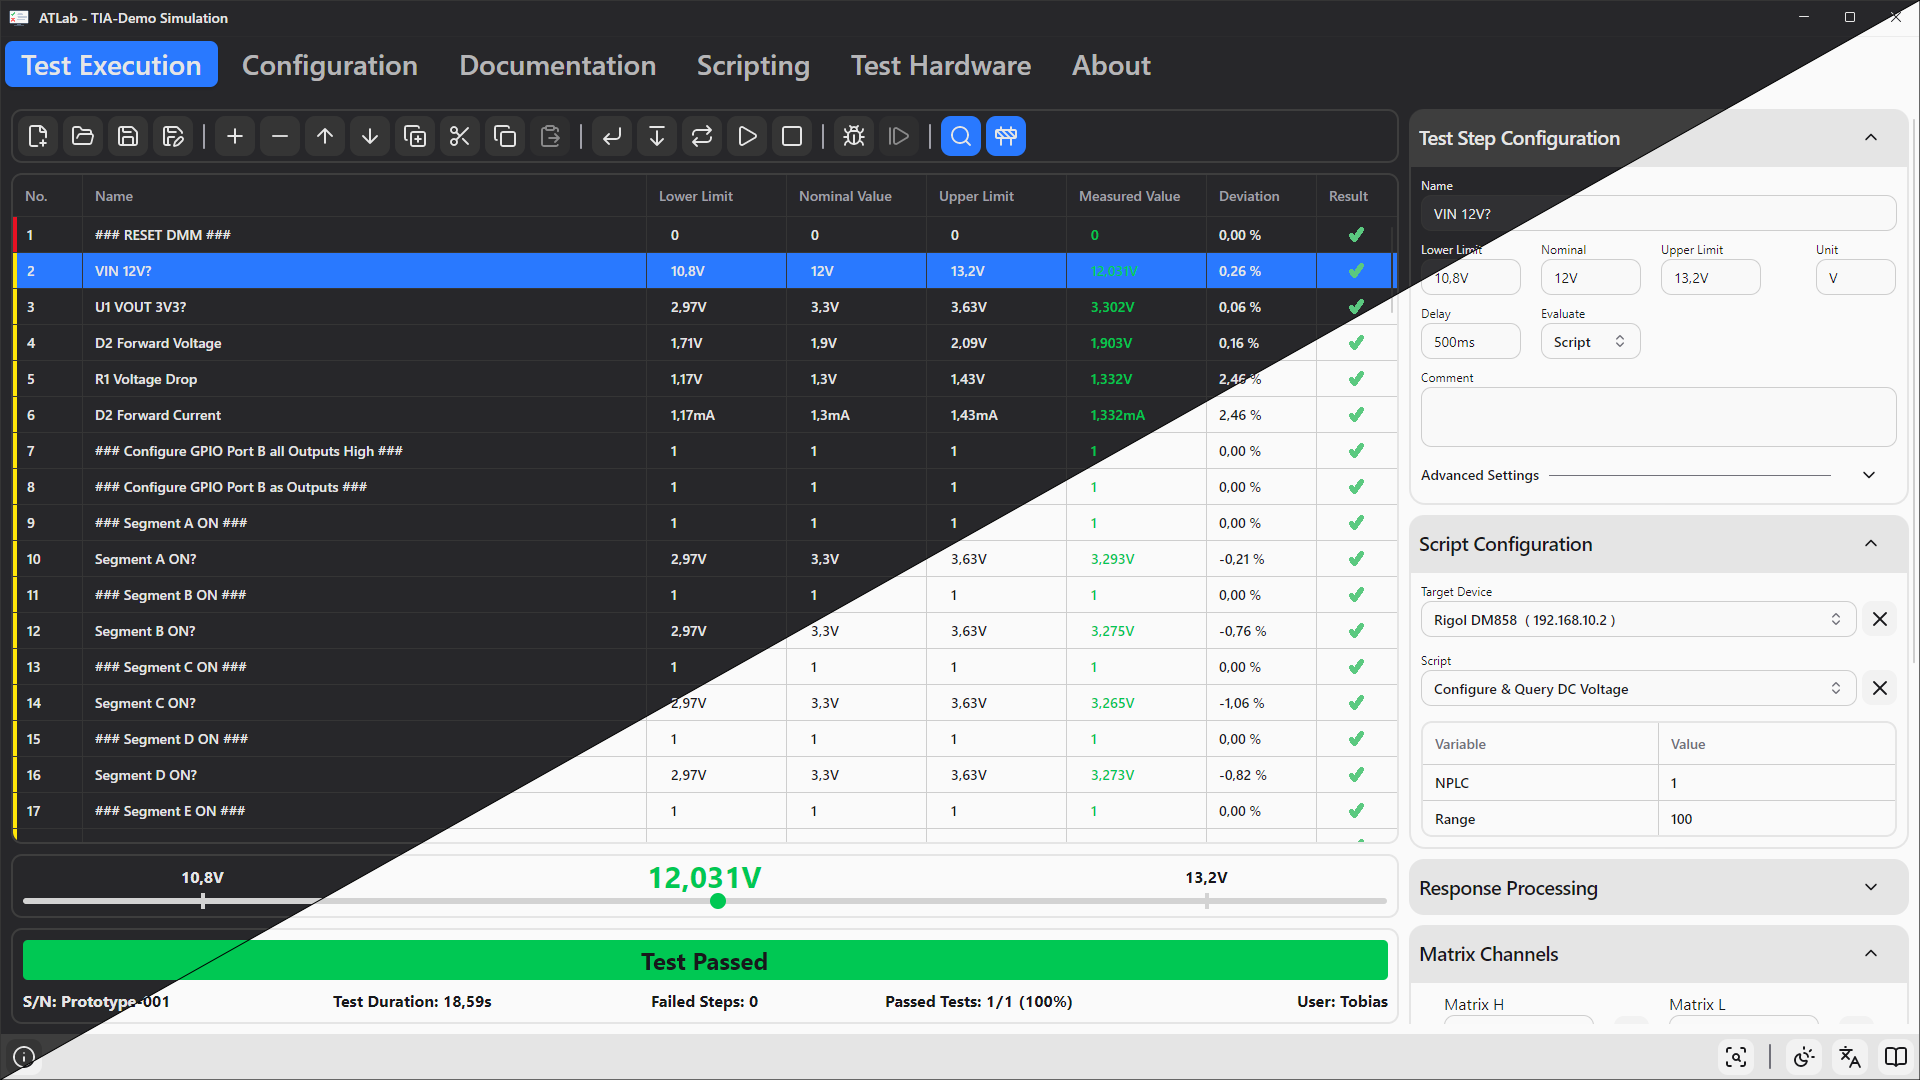
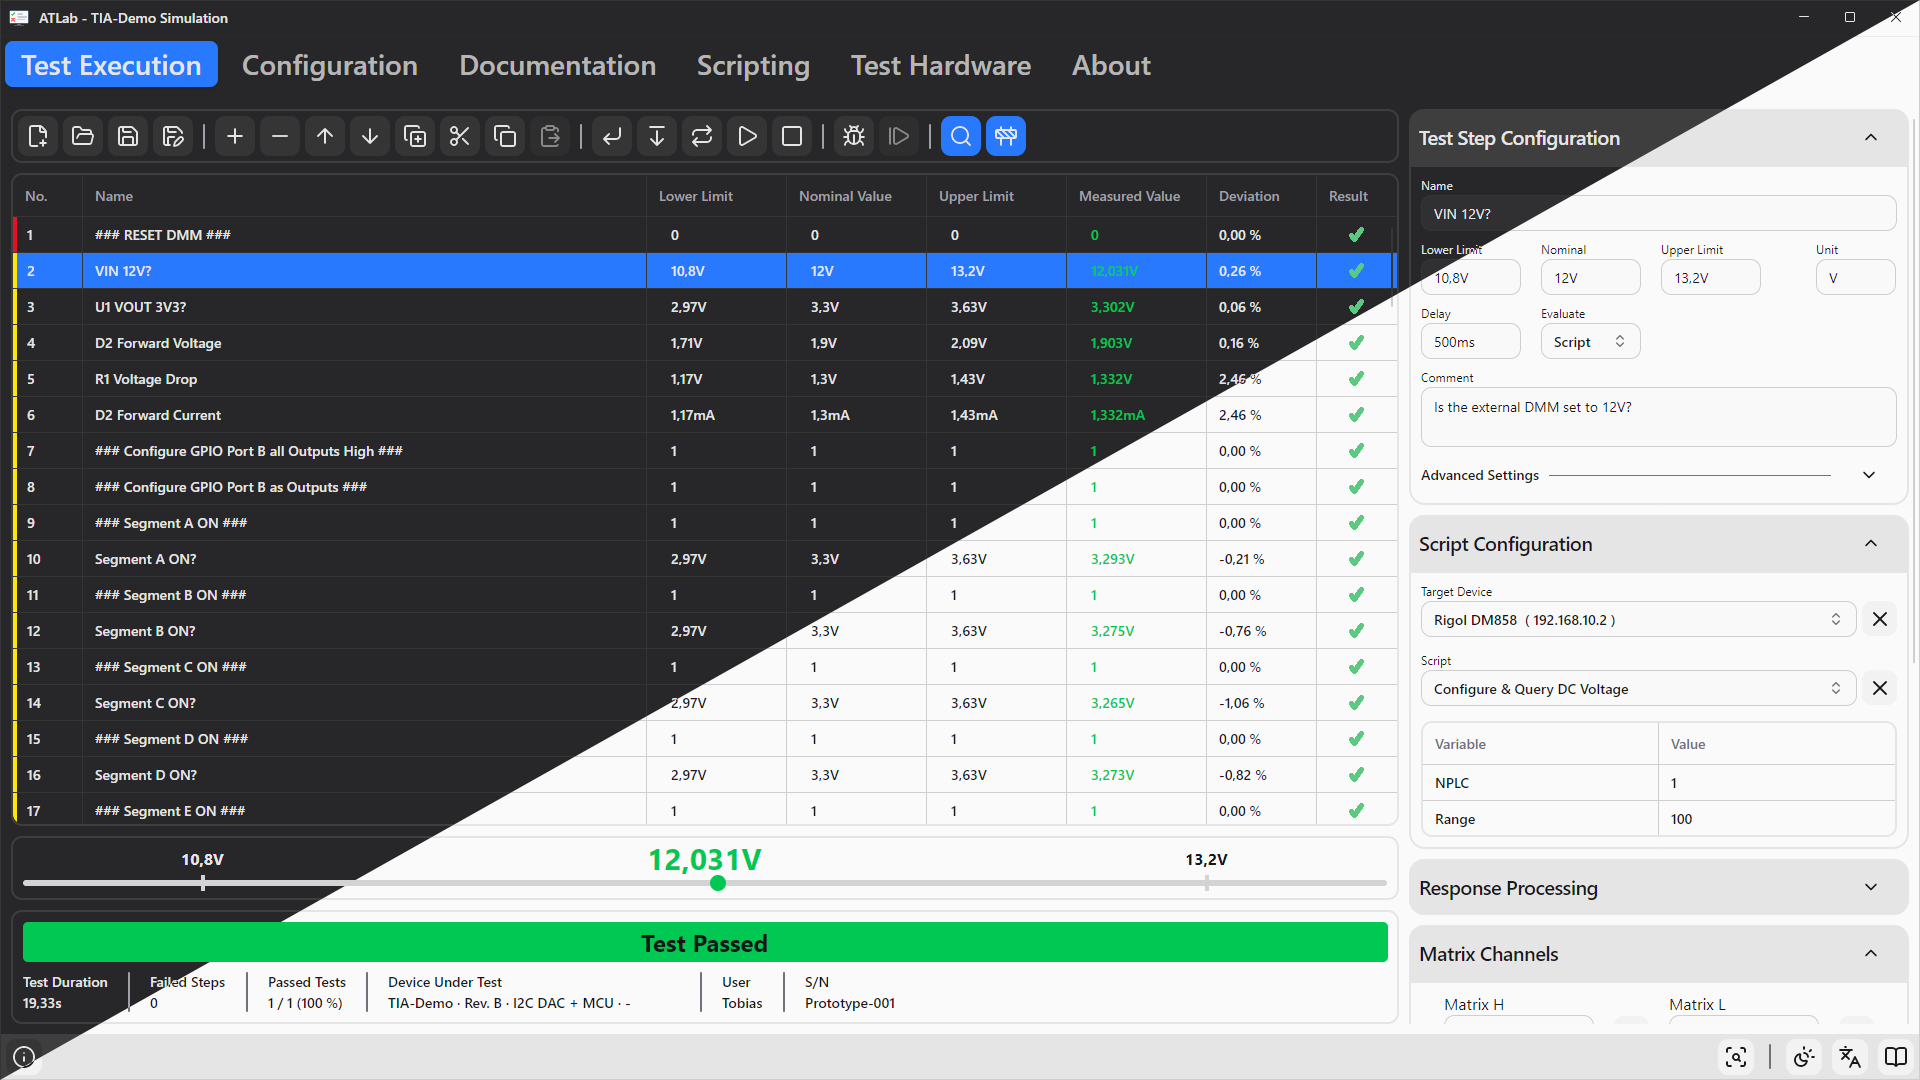
update docs

Changed region(s): [[0.0, 0.7639, 0.7188, 0.9472], [0.75, 0.3667, 0.8438, 0.3972]]

diff --git a/docs/user-guide/de/11-running-tests.md b/docs/user-guide/de/11-running-tests.md
@@ -58,11 +58,14 @@ Unterhalb der Schrittliste:
 | Element | Beschreibung |
 |---------|--------------|
 | Statusbanner | **Test läuft** mit Fortschrittsbalken, danach **Test bestanden** (grün), **Test fehlgeschlagen** (rot), **Test abgebrochen** oder **Testausführung fehlgeschlagen**. |
-| **S/N** | Seriennummer des aktuellen Laufs oder `-`. |
 | **Testdauer** | Verstrichene Zeit des Laufs. |
-| **Fehlgeschlagene Schritte** | Anzahl fehlgeschlagener Schritte in diesem Lauf. |
+| **Fehlgeschlagene Schritte** | Anzahl fehlgeschlagener Schritte in diesem Lauf. Rot hervorgehoben, wenn größer als null. |
 | **Bestandene Tests** | Bestandene Läufe / alle Läufe seit dem Öffnen des Projekts, mit Prozentangabe. Nützlich bei Dauertests. |
+| **Prüfling (DUT)** | Gerätename, Revision, Variante und Teilenummer aus der [Registerkarte Dokumentation](13-documentation-tab.md#prüfling-dut), oder `-`. Beim Darüberfahren werden die einzelnen Felder angezeigt. |
 | **Benutzer** | Benutzername des Betriebssystems; erscheint im Bericht als *Bediener*. |
+| **S/N** | Seriennummer des aktuellen Laufs oder `-`. Beim Darüberfahren wird eine lange Seriennummer vollständig angezeigt. |
+
+Bei schmalem Fenster werden *Prüfling (DUT)* und *S/N* mit „…“ gekürzt.
 
 ### Gesamtergebnis
 

diff --git a/docs/user-guide/en/11-running-tests.md b/docs/user-guide/en/11-running-tests.md
@@ -58,11 +58,14 @@ Below the step list:
 | Element | Description |
 |---------|-------------|
 | Status banner | **Running Test** with a progress bar, then **Test Passed** (green), **Test Failed** (red), **Test Canceled** or **Test Execution Failed**. |
-| **S/N** | Serial number of the current run, or `-`. |
 | **Test Duration** | Elapsed time of the run. |
-| **Failed Steps** | Number of failed steps in this run. |
+| **Failed Steps** | Number of failed steps in this run. Highlighted in red when greater than zero. |
 | **Passed Tests** | Passed runs / total runs since the project was opened, with percentage. Useful for continuous runs. |
+| **Device Under Test** | Device name, revision, variant and part number from the [Documentation tab](13-documentation-tab.md#device-under-test), or `-`. Hover for the individual fields. |
 | **User** | Operating-system user name; printed as *Operator* in the report. |
+| **S/N** | Serial number of the current run, or `-`. Hover to see a long serial number in full. |
+
+If the window is narrow, *Device Under Test* and *S/N* are shortened with "…".
 
 ### Final verdict
 

diff --git a/docs/user-guide/de/13-documentation-tab.md b/docs/user-guide/de/13-documentation-tab.md
@@ -45,3 +45,5 @@ Existiert ein referenziertes Bild oder eine Datei nicht mehr, wird ein Fehler pr
 | **Zusätzliche Notizen** | Zusätzliche Informationen (eigener Abschnitt, nur gedruckt, wenn nicht leer) |
 
 Leere Felder werden als `-` gedruckt. Die Seriennummer wird nicht hier eingegeben; sie stammt aus dem Seriennummer-Dialog zu Beginn jedes Tests.
+
+Name, Revision, Variante und Teilenummer werden außerdem in der [Ergebnisleiste](11-running-tests.md#die-ergebnisleiste) auf der Registerkarte Testausführung angezeigt, damit der Bediener prüfen kann, ob der richtige Test geladen ist.

diff --git a/docs/user-guide/en/13-documentation-tab.md b/docs/user-guide/en/13-documentation-tab.md
@@ -45,3 +45,5 @@ If a referenced image or file no longer exists, an error is logged (*"Image not 
 | **Additional Notes** | Additional Notes (separate section, only printed if not empty) |
 
 Empty fields are printed as `-`. The serial number is not entered here; it comes from the serial-number dialog at the start of each test.
+
+Name, revision, variant and part number are also shown in the [result bar](11-running-tests.md#the-result-bar) on the Test Execution tab, so the operator can check that the right test is loaded.
